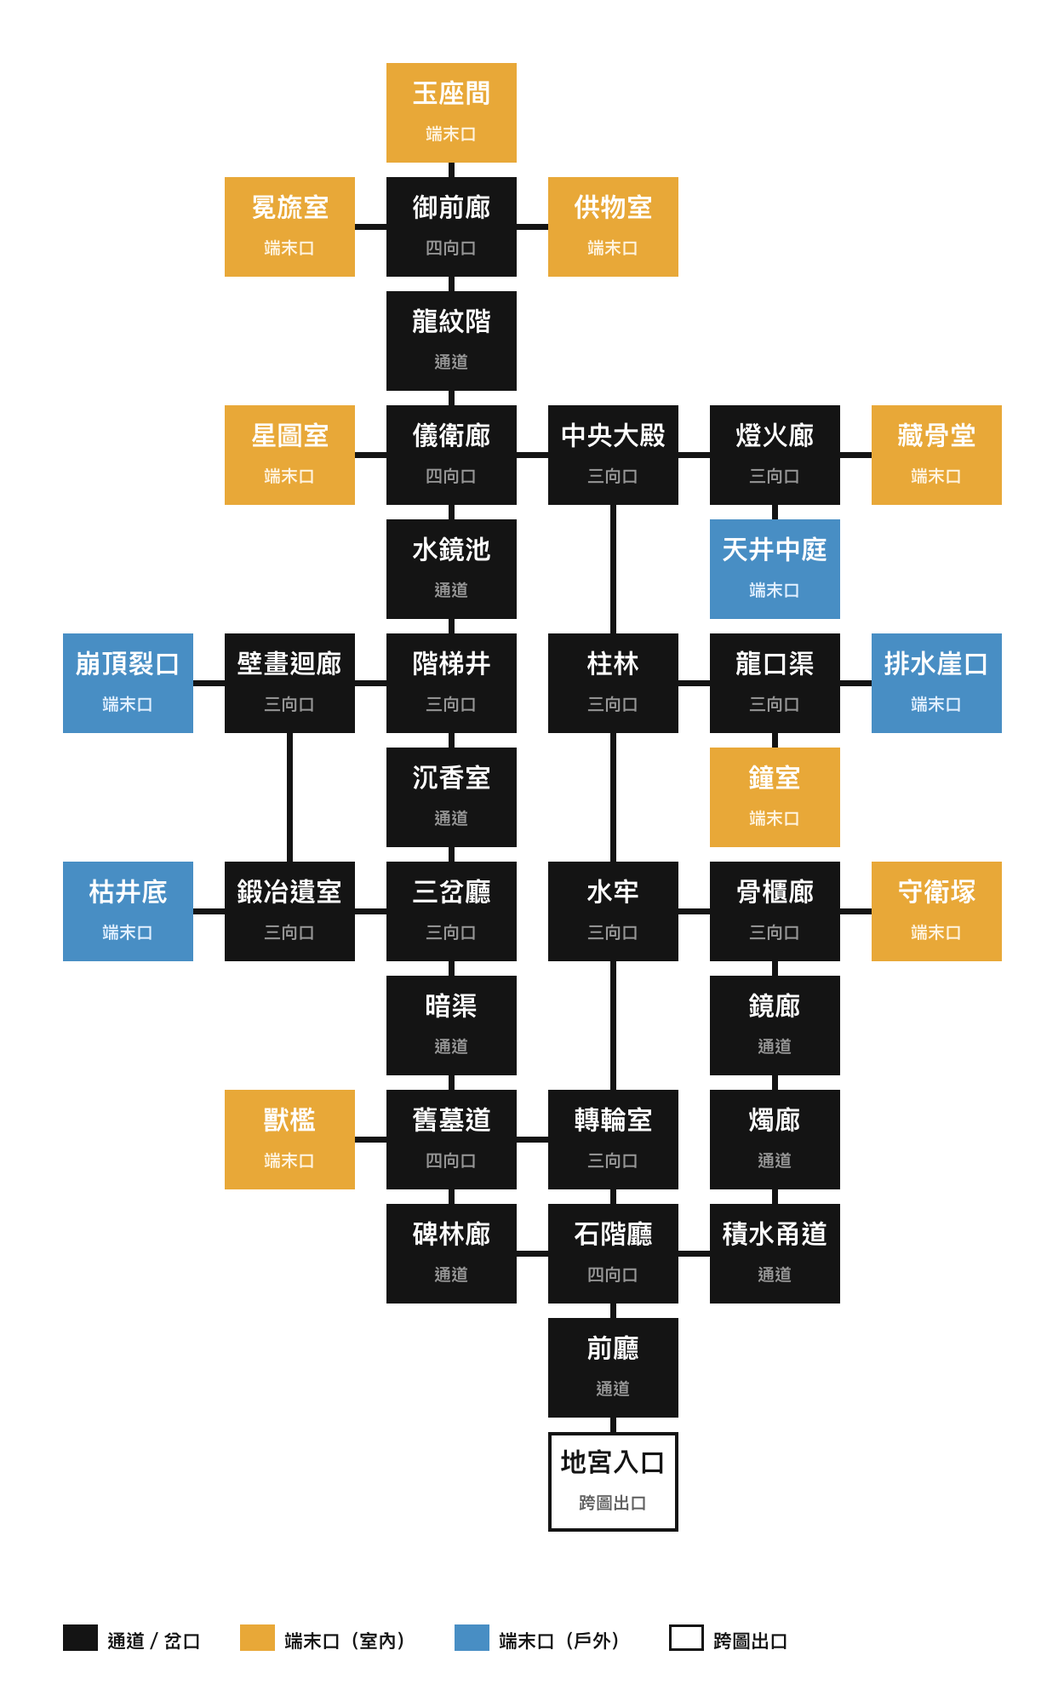
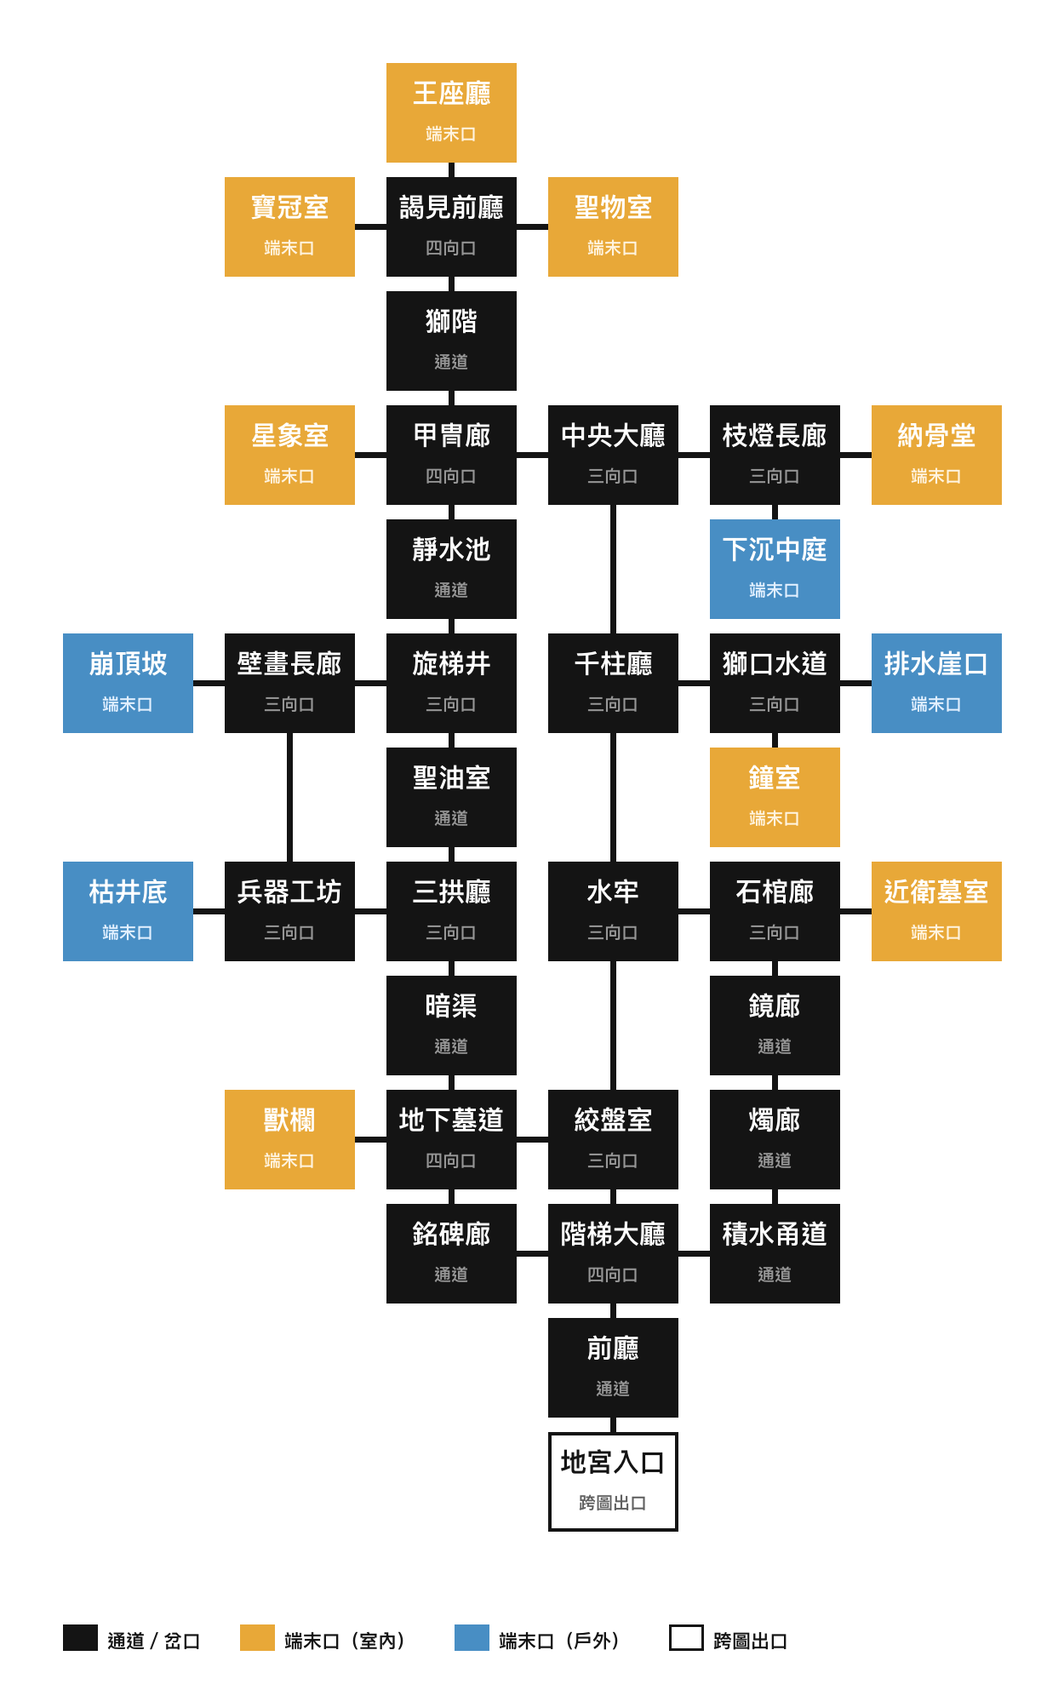
feat(map): 地宮改成古代歐式皇宮、去掉東方元素、畫風加「遼闊」規格
Ray：「好，某些地方看得出是古代皇宮，不要東方元素，場景看起來要遼闊」

- **房間名整批換掉**（名字是給美術的第一道指示，取錯字整張圖會漂到唐風）：
  玉座間→王座廳／冕旒室→寶冠室／御前廊→謁見前廳／供物室→聖物室／
  龍紋階→獅階／儀衛廊→甲冑廊／中央大殿→中央大廳／燈火廊→枝燈長廊／
  星圖室→星象室／藏骨堂→納骨堂／水鏡池→靜水池／柱林→千柱廳／
  龍口渠→獅口水道／階梯井→旋梯井／沉香室→聖油室／鍛冶遺室→兵器工坊／
  三岔廳→三拱廳／骨櫃廊→石棺廊／守衛塚→近衛墓室／獸檻→獸欄／
  舊墓道→地下墓道／轉輪室→絞盤室／碑林廊→銘碑廊／石階廳→階梯大廳／
  天井中庭→下沉中庭／崩頂裂口→崩頂坡
- spec 新增兩節，都寫成「**怎麼畫**」而不是形容詞（§5 的規矩）：
  · **不要東方元素**：一張 ⛔/✅ 對照表（朱漆斗拱藻井龍鳳燈籠 → 大理石拱券穹頂
    紋章枝形吊燈柱式），並註明房間名換過一次就是為了這條。
  · **遼闊**：七條可執行的（鏡頭壓低／三段深度／重複元素往深處等距縮小／
    給人的尺度參照／光源放遠／**不要把主體塞滿畫面**／上下留空）。
- **三帶**（「某些地方看得出是古代皇宮」）：列 0~3 宮殿本體（大理石鍍金吊燈）／
  列 5~7 地下設施（粗石磚拱鐵件水）／列 8~12 入口側服務區（素石夯土積水）——
  玩家從最粗糙一路走進最華麗，這條線本身就是辨識度。
  ⚠ A 帶那幾格是「這是皇宮」的全部證據，畫不出來整張圖只是個地窖。
- 拓樸未動（Ray 已認可），實走自檢照舊：按↑停在中央大廳、碰不到 BOSS。

diff --git a/resources/map/_undercity_spec.md b/resources/map/_undercity_spec.md
@@ -1,136 +1,169 @@
-# 地宮（暫名 `undercity`）— 拓樸提案 ＋ 逐格特徵
+# 地宮（暫名 `undercity`）— 拓樸 ＋ 逐格特徵 ＋ 畫風規格
 
-> Ray（2026-09-10）：「生成地圖，參考 reference/maze 同風格，**廣大的地宮迷宮**，
-> **某些端末點是戶外**，**有很多三岔口**，**不要都畫一樣，要有辨視度**」
+> Ray（2026-09-10）：
+> ①「生成地圖，參考 reference/maze 同風格，**廣大的地宮迷宮**，**某些端末點是戶外**，
+>   **有很多三岔口**，**不要都畫一樣，要有辨視度**」
+> ②「好，**某些地方看得出是古代皇宮**，**不要東方元素**，**場景看起來要遼闊**」
 
 **佈局圖**：`resources/map/_layout_undercity.png`（產生器 `tools/map_undercity_draft.py`）
 
-⚠⚠⚠ **這是提案，不是定稿。** 憲法 ver -907 寫著「**地圖的拓樸是 Ray 的設計**，不是我的」
-—— 這一版是他交辦的，所以形狀、房間名、哪幾個端末是戶外，全部等他改。
-**他點頭之後**才把拓樸搬進 `script/town.js`，那時 `tools/map_layout.py` 接手產圖、
+⚠ **拓樸已由 Ray 認可**（②的「好」）。**房間名與畫風是這一版新定的**，仍可改。
+⚠⚠ 拓樸**還沒搬進 `script/town.js`** —— 搬進去之後 `tools/map_layout.py` 接手產圖、
 `map_undercity_draft.py` 回收掉（同一個拓樸不留兩份，鐵律 7）。
-
 ⚠ **地圖 id 與中文正名等 Ray 給**（現在暫用 `undercity`／「地宮」）。
 
 ---
 
 ## 一、數據
 
-| | 數量 |
+| | |
 |---|---|
-| 格數 | **37**（36 個房間 ＋ 1 個跨圖出口） |
-| 邊 | 40 |
-| **環** | **4**（`環 = 邊 − 節點 + 1`） |
-| **四向口** | **4**：御前廊・儀衛廊・舊墓道・石階廳 |
-| **三向口** | **11**：中央大殿・燈火廊・壁畫迴廊・階梯井・柱林・龍口渠・鍛冶遺室・三岔廳・水牢・骨櫃廊・轉輪室 |
+| 格數 | **37**（36 房間 ＋ 1 跨圖出口）——`reference/maze` 20 格、木雅克神殿 21 格 |
+| 邊 / 環 | 40 / **4** |
+| **四向口** | **4**：謁見前廳・甲冑廊・地下墓道・階梯大廳 |
+| **三向口** | **11**：中央大廳・枝燈長廊・壁畫長廊・旋梯井・千柱廳・獅口水道・兵器工坊・三拱廳・水牢・石棺廊・絞盤室 |
 | 通道（二向） | 9 |
-| **端末口** | **12**，其中**戶外 4**：天井中庭・崩頂裂口・排水崖口・枯井底 |
+| **端末口** | **12**，其中**戶外 4**：下沉中庭・崩頂坡・排水崖口・枯井底 |
 
-**規模對照**：`reference/maze.png` 20 格 / `shinier_ruins`（木雅克神殿）21 格 →
-這一張 **37 格**，是目前最大的一張。
-
-### ⚠⚠ 主幹刻意「按不到底」（憲法 ver -902 的自檢）
-
-實走結果（產生器每次都會印）：
+### ⚠⚠ 主幹刻意「按不到底」（憲法 ver -902 的自檢，產生器每次都印）
 
 ```
-一直按↑（從入口）：地宮入口→前廳→石階廳→轉輪室→水牢→柱林→中央大殿      ← 停在這裡
-一直按↓（從玉座）：玉座間→御前廊→龍紋階→儀衛廊→水鏡池→階梯井→沉香室→暗渠→舊墓道→碑林廊
+一直按↑（從入口）：地宮入口→前廳→階梯大廳→絞盤室→水牢→千柱廳→中央大廳   ← 停在這裡
+一直按↓（從王座）：王座廳→謁見前廳→獅階→甲冑廊→靜水池→旋梯井→聖油室→三拱廳→暗渠→地下墓道→銘碑廊
 ```
 
-- 兩個方向都**走到某一格就停**，沒有同向繞圈（-902 那個「兩格之間彈、走不出去」的病）。
-- ⚠⚠ **而且按↑到不了玉座間** —— 玉座區刻意掛在**西側的儀衛廊**，不掛中央大殿。
-  掛中央大殿的話主幹就是一條直通王座的電梯，十一個岔路口全白設計了。
-  玩家得自己找到「在中央大殿往西轉」那一步。
-- ⚠ **柱林層與水牢層的橫向各斷成兩段**（階梯井↔柱林、三岔廳↔水牢 **沒有路**）：
-  那兩個斷點是「東半邊與西半邊要繞路才過得去」的來源，也是四個環的成因。
+- 兩個方向都走到某一格就停，沒有同向繞圈（-902 那個「兩格之間彈」的病）。
+- ⚠⚠ **按↑到不了王座廳**：王室層刻意掛在**西側的甲冑廊**，不掛中央大廳 ——
+  掛中央的話主幹就是一台直通王座的電梯，十一個岔路口全白設計了。
+- ⚠ 千柱廳↔旋梯井、水牢↔三拱廳 **各斷一處**：東西半邊要繞路，也是四個環的成因。
 
 ---
 
-## 二、逐格特徵（**辨識度**＝這一節）
+## 二、⚠⚠⚠ 畫風鐵則（這一節優先於下面每一格的描述）
 
-> Ray：「不要都畫一樣，要有辨視度」。
-> ⚠⚠ **憲法 §6.5.4「地圖的形狀是圖決定的」是反過來用的**：這一次**先排拓樸再畫場景**，
-> 所以下面的「出口數」是**給美術的規格**，不是事後遷就 —— 那一格的背景圖**必須**
-> 畫得出那麼多條真通道（壁龕假路不算）。畫不出來就回頭改拓樸，不要硬接。
+### 1．**不要東方元素**（Ray 指定）
 
-### 四向口（背景要畫得出四條真通道）
+⚠⚠ **房間名整批換過一次就是為了這一條** —— 舊版的玉座間／冕旒室／龍紋階／龍口渠／
+藻井／碑林廊／沉香室／渾儀**全部撤掉了**。名字是給美術的第一道指示，取錯字整張圖
+就會漂到唐風去。
 
-| 格 | 這一格長什麼樣 |
+| ⛔ 一個都不要 | ✅ 要的是這些 |
 |---|---|
-| **御前廊** | 玉座前的短廊。左右各一道包金釘的大門（冕旒室／供物室），正面是玉座的高門，身後往下是龍紋階。地上散著朝服的殘骸。 |
-| **儀衛廊** | 兩排**等身石甲武士**夾道，每一具都缺一隻手。四面都是拱門，甲士的臉朝著走道轉。 |
-| **舊墓道** | 墓道的十字口。四壁密密麻麻的小龕，每一龕一盞熄掉的燈。 |
-| **石階廳** | 入口正上方那一層。寬石階往下通前廳，其餘三面各一道券門；地上積了一層細沙，看得出腳印。 |
+| 朱漆・斗拱・藻井・飛簷・琉璃瓦 | 大理石・石灰岩・拱券・筒形／交叉拱頂・穹頂 |
+| 龍鳳・雲紋・回紋・盤龍柱 | 紋章（獅・鷲・百合）・莨苕葉飾・齒飾線腳 |
+| 燈籠・屏風・榻榻米・和式格柵 | 枝形吊燈・燭台・壁毯・鑲木／馬賽克地板 |
+| 石獅（東方那種）・漢白玉欄杆 | **歐式獅像**（有鬃、寫實）・欄杆式扶手・柱式（多立克／科林斯） |
+| 漢字碑刻・卷軸 | 拉丁式銘文石板・油畫・浮雕飾帶（frieze） |
 
-### 三向口（十一個，**每一個岔法都不一樣**）
+### 2．**場景看起來要遼闊**（Ray 指定）
 
-| 格 | 這一格長什麼樣 |
-|---|---|
-| **中央大殿** | 整座地宮最大的廳，天頂垮了一半**但沒有天光**（上面還壓著一層）。八根倒柱斜插在地。 |
-| **燈火廊** | 長廊兩側整排壁燈，**只有離你最近的三盞是亮的**，走近就依序亮起來。 |
-| **壁畫迴廊** | 弧形的廊，內壁一整幅褪色壁畫（王的一生），畫面被三道門切斷。 |
-| **階梯井** | 方形的樓梯井，梯級繞著井壁盤下去，**正中央是空的**（看得到下一層）。 |
-| **柱林** | 幾十根等距的方柱，看不到牆 —— 方向感只能靠柱距。 |
-| **龍口渠** | 水從一座石雕龍口流出、沿廊而下；渠兩側各一條窄步道。 |
-| **鍛冶遺室** | 塌了一半的鑄場：冷掉的爐、掛滿工具的牆、地上一灘凝固的金屬。 |
-| **三岔廳** | 正三角形的廳，三面各一個門洞，正中一口井。 |
-| **水牢** | 地面全是及膝的水，牆上一排鐵柵小室，柵欄泡在水裡。 |
-| **骨櫃廊** | 兩側牆整面是抽屜狀的石櫃，**有幾格被拉開了**。 |
-| **轉輪室** | 正中一座巨大的木製絞盤（開門用的），鎖鏈往三個方向的牆裡去。 |
+⚠⚠ 「遼闊」寫在提示詞裡沒有用，要指定**怎麼畫**（同 §5「不要顆粒感」那條的道理）：
 
-### 通道（二向）
+1. **鏡頭壓低**：地平線放在畫面下三分之一，主體往上長出畫面外 —— 由下往上看才顯大。
+2. **三段深度**：**近端**用一根柱／一道拱把畫面框住（暗、只有剪影）→ **中景**是主體
+   → **遠景消失在暗處或塵霧裡**，**看不到盡頭**。
+3. **重複元素往深處等距縮小**（柱、拱、壁龕、石棺、吊燈）—— 消失點明確。
+   這是「遼闊」最便宜也最有效的一招，比把東西畫大有用得多。
+4. **給一個人的尺度參照**：畫面深處放一道小小的門／一盞燈／一段欄杆，
+   讓觀者自己換算出「這裡有多大」。
+5. **光源放遠**：遠端一道光、近端壓暗，眼睛被拉向深處。
+6. ⚠⚠ **不要把主體塞滿畫面** —— 塞滿讀起來就是「一個小房間」，那正好相反。
+7. ⚠ 上下留空：天頂要看得到（或看不到頂），地面要看得到延伸。
 
-| 格 | 這一格長什麼樣 |
-|---|---|
-| 龍紋階 | 一段長石階，兩側扶手雕成龍脊。 |
-| 水鏡池 | 一池不流動的黑水，水面照得出天頂的藻井。 |
-| 沉香室 | 小方室，四壁嵌著香爐，空氣裡還浮著煙。 |
-| 暗渠 | 要低頭走的排水暗渠，水到腳踝。 |
-| 鏡廊 | 兩側牆嵌滿磨過的銅鏡，把光一路傳下去。 |
-| 燭廊 | 窄廊，地上插滿滴乾的蠟燭。 |
-| 碑林廊 | 走道兩側立滿石碑，人要側身過。 |
-| 積水甬道 | 低窪甬道，積水到膝，壁上有一條清楚的水痕線。 |
-| 前廳 | 入口內側的門廳，一半塌了，**回頭看得見外面的光**。 |
+### 3．**三帶：越往深處越華麗**（Ray：「某些地方看得出是古代皇宮」）
 
-### 端末口・室內（8）
+玩家從最粗糙的地方一路走進最華麗的地方 —— 這條線本身就是辨識度。
 
-| 格 | 這一格長什麼樣 |
-|---|---|
-| **玉座間** | 最深處。一座**空的**玉座，背後是整面浮雕。（建議＝BOSS 格） |
-| 冕旒室 | 擺著王冠與冕旒的小室，架上的東西都還在。 |
-| 供物室 | 堆滿祭器與乾掉供品的側室。 |
-| 星圖室 | 穹頂刻著整片星圖的圓室，地上一具青銅渾儀。 |
-| 藏骨堂 | 牆面砌滿頭骨的圓堂。 |
-| 鐘室 | 吊著一口大銅鐘，鐘身有一道裂縫。 |
-| 守衛塚 | 陪葬武士的墓室，成排的石棺。 |
-| 獸檻 | 關過什麼東西的鐵籠，**柵欄是從裡面被撞開的**。 |
+| 帶 | 列 | 讀起來是什麼 | 材質 |
+|---|---|---|---|
+| **A 宮殿本體**（被埋掉的正殿） | 0~3 | **一眼看得出是皇宮** | 大理石、鍍金、彩色石片地板、吊燈、壁毯 |
+| **B 地下設施** | 5~7 | 宮殿底下的機能空間 | 粗石、磚拱、鐵件、水 |
+| **C 入口側服務區** | 8~12 | 最外圍、最破 | 素石、夯土、木構、積水 |
+
+⚠ **A 帶那七格是「皇宮」這件事的全部證據**（王座廳・謁見前廳・寶冠室・聖物室・
+甲冑廊・中央大廳・枝燈長廊・壁畫長廊・鏡廊・星象室）——
+那幾張畫不出皇宮感，整張地圖就只是個地窖。
+
+---
+
+## 三、逐格特徵（**辨識度**＝這一節）
+
+> ⚠⚠ **憲法 §6.5.4「地圖的形狀是圖決定的」這一次是反過來用的**：先排拓樸再畫場景
+> （＝先前神殿繞十幾版的教訓）。所以下面的**出口數是給美術的規格**，不是事後遷就 ——
+> 那一格的背景**必須**畫得出那麼多條真通道（壁龕假路不算）。畫不出來就回頭改拓樸。
+
+### A 帶・宮殿本體
+
+| 格 | 向數 | 這一格長什麼樣 |
+|---|---|---|
+| **王座廳**〔BOSS〕 | 端末 | **最遼闊的一張**。兩排巨柱一路延伸到看不見的盡頭，盡頭高台上一座**空王座**，背後整面尖拱窗（玻璃碎光了，外面是土）。地面是放射狀的彩色石片。 |
+| **謁見前廳** | 四向 | 王座前的短廳。左右各一道包鐵鍍金的高門（寶冠室／聖物室），正面是王座廳的雙開門，身後往下是獅階。地上散著朝服殘骸。 |
+| 寶冠室 | 端末 | 展示王冠與權杖的小室，天鵝絨襯墊上的東西**都還在**。 |
+| 聖物室 | 端末 | 聖髑匣與祭器堆滿的側室，銀器全黑了。 |
+| 獅階 | 通道 | 一段長石階，兩側扶手每隔幾級蹲著一頭**歐式石獅**（有鬃、寫實），全部朝下看著你。 |
+| **甲冑廊** | 四向 | 兩排**等身板甲**夾道立在架上，**每一具都缺一隻手**。四面都是拱門，面甲朝著走道轉。 |
+| **中央大廳** | 三向 | 整座地宮最大的廳，交叉拱頂垮了一半**但沒有天光**（上面還壓著一層土）。八根巨柱斜插在地。 |
+| **枝燈長廊** | 三向 | 長廊天頂一整列枝形吊燈，**只有離你最近的三盞是亮的**，走近就依序亮起來。 |
+| **壁畫長廊** | 三向 | 弧形長廊，內壁一整幅褪色濕壁畫（王的一生），畫面被三道門切斷。 |
+| 星象室 | 端末 | 穹頂刻著整片星圖的圓室，正中一具青銅**天球儀**。 |
+| 納骨堂 | 端末 | 牆面砌滿頭骨與長骨的圓堂（歐式納骨所那種**排出花紋**的砌法）。 |
+| 靜水池 | 通道 | 一池不流動的黑水，水面照得出上方的拱肋。 |
+
+### B 帶・地下設施
+
+| 格 | 向數 | 這一格長什麼樣 |
+|---|---|---|
+| **千柱廳** | 三向 | **第二遼闊**。幾十根等距的柱子泡在淺水裡，看不到牆 —— 方向感只能靠柱距（地下蓄水池那種）。 |
+| **旋梯井** | 三向 | 方形樓梯井，石梯繞著井壁盤下去，**正中央是空的**，看得見下一層的光。 |
+| **獅口水道** | 三向 | 水從一座**獅頭石雕口**流出、沿廊而下；渠兩側各一條窄步道。 |
+| **兵器工坊** | 三向 | 塌了一半的工坊：冷掉的爐、掛滿工具的牆、地上一灘凝固的金屬。 |
+| **三拱廳** | 三向 | 三面各一道拱門的三角形廳，正中一口井。 |
+| **水牢** | 三向 | 地面全是及膝的水，牆上一排鐵柵小室，柵欄泡在水裡。 |
+| **石棺廊** | 三向 | 兩側牆整面是抽屜狀的石棺格，**有幾格被拉開了**。 |
+| 聖油室 | 通道 | 小方室，四壁嵌著油罐與燭架，空氣裡還有味道。 |
+| 鐘室 | 端末 | 吊著一口大銅鐘，鐘身一道裂縫。 |
+| 近衛墓室 | 端末 | 近衛騎士的墓室，成排的石棺，棺蓋上都躺著臥像。 |
+
+### C 帶・入口側服務區
+
+| 格 | 向數 | 這一格長什麼樣 |
+|---|---|---|
+| **地下墓道** | 四向 | 墓道十字口。四壁密密麻麻的壁龕，每一龕一盞熄掉的燈。 |
+| **階梯大廳** | 四向 | 入口正上方那一層。寬石階往下通前廳，其餘三面各一道券門；地上積了一層細沙，看得出腳印。 |
+| **絞盤室** | 三向 | 正中一座巨大的木製絞盤（開門用的），鎖鏈往三個方向的牆裡去。 |
+| 暗渠 | 通道 | 要低頭走的排水暗渠，水到腳踝。 |
+| 鏡廊 | 通道 | 兩側牆嵌滿磨過的銅鏡，把光一路傳下去。 |
+| 燭廊 | 通道 | 窄廊，地上插滿滴乾的蠟燭。 |
+| 銘碑廊 | 通道 | 走道兩側立滿刻著銘文的石板，人要側身過。 |
+| 積水甬道 | 通道 | 低窪甬道，積水到膝，壁上一條清楚的水痕線。 |
+| 前廳 | 通道 | 入口內側的門廳，一半塌了，**回頭看得見外面的光**。 |
+| 獸欄 | 端末 | 王室獸苑的鐵籠，**柵欄是從裡面被撞開的**。 |
 
 ### 端末口・**戶外**（4）
 
-> Ray：「某些端末點是戶外」。四個都是「地宮破開、天露出來」，但**看見天的方式
-> 各不相同** —— 這正是辨識度：玩家一眼就知道自己走到哪一個破口。
+> 四個都是「地宮破開、天露出來」，但**看見天的方式各不相同** ——
+> 這正是辨識度：玩家一眼就知道自己走到哪一個破口。
 
 | 格 | 這一格長什麼樣 |
 |---|---|
-| **天井中庭** | 下沉式中庭，四面石牆，**天空在正上方**；地面長滿草與小樹。白天有陽光直射到底。 |
-| **崩頂裂口** | 天頂整片塌下來，碎石堆成一道**斜坡通向外面**；坡頂看得到雲。 |
-| **排水崖口** | 排水道的出口開在**崖壁上**，往外是峽谷與遠山 —— 腳下沒有路。 |
+| **下沉中庭** | 下沉式中庭，四面石牆（帶壁柱與空壁龕），**天空在正上方**；地面長滿草與小樹。白天陽光直射到底。 |
+| **崩頂坡** | 拱頂整片塌下來，碎石堆成一道**斜坡通向外面**；坡頂看得到雲。 |
+| **排水崖口** | 排水道的出口開在**崖壁上**，往外是峽谷與遠山 —— 腳下沒有路。**這一張最遼闊**（外面的景深整個打開）。 |
 | **枯井底** | 井底抬頭是**一個圓形的天**；井壁長滿藤，藤一路垂到地面。 |
 
-⚠ 四張都要有**時段差分**（`_dawn`/`_day`/`_dusk`/`_night`，§5）—— 室內那些不必。
-這是它們最大的成本，也是它們最大的價值：整座地宮只有這四格會隨時間變。
+⚠ 四張都要**時段差分**（`_dawn`/`_day`/`_dusk`/`_night`，§5）—— 室內那些不必。
+這是它們最大的成本，也是最大的價值：整座地宮只有這四格會隨時間變。
 
 ---
 
-## 三、接進遊戲時要注意的（等 Ray 點頭之後）
+## 四、接進遊戲時要注意的
 
 - ⚠ **入口那一格不可以有戰鬥**（§6.5.2）：`前廳`（＋`地宮入口`）留空。
-- ⚠ **樓梯／裂隙不出怪**（ver -913 的通則）：`龍紋階`／`階梯井`／`崩頂裂口`／`枯井底` 建議 `noWild`。
-- ⚠ **休息處**（`rest:true`，走進去就閉棺結算）：建議 `前廳`（入口）＋ `天井中庭`（中段喘息）。
+- ⚠ **樓梯／裂隙不出怪**（ver -913 的通則）：`獅階`／`旋梯井`／`崩頂坡`／`枯井底` 建議 `noWild`。
+- ⚠ **休息處**（`rest:true`，走進去就閉棺結算）：建議 `前廳`（入口）＋ `下沉中庭`（中段喘息）。
   ⚠ 安全點一律 `noWild`。
 - ⚠ **結算怪**：這張圖只有一個跨圖出口＝**末端型**，所以 ver -895「擺在沒走進來的
-  那個出口」不適用，結算怪照舊由資料指定（建議 `玉座間` 的 BOSS）。
+  那個出口」不適用，結算怪照舊由資料指定（建議 `王座廳` 的 BOSS）。
 - ⚠ **迷霧預設是有的**（ver -913）：這張圖**不要**寫 `mist:0`。
-- ⚠ 小地圖（`resources/map/map_undercity.png`）是**另一張**手繪羊皮紙圖，等拓樸定案
-  再請美術畫 —— 節點數一變那張就得重畫（-901 已經重畫過一次）。
+- ⚠ 小地圖（`resources/map/map_undercity.png`）是**另一張**手繪羊皮紙圖，等拓樸真的
+  落進 `town.js` 再請美術畫 —— 節點數一變那張就得重畫（-901 已經重畫過一次）。
